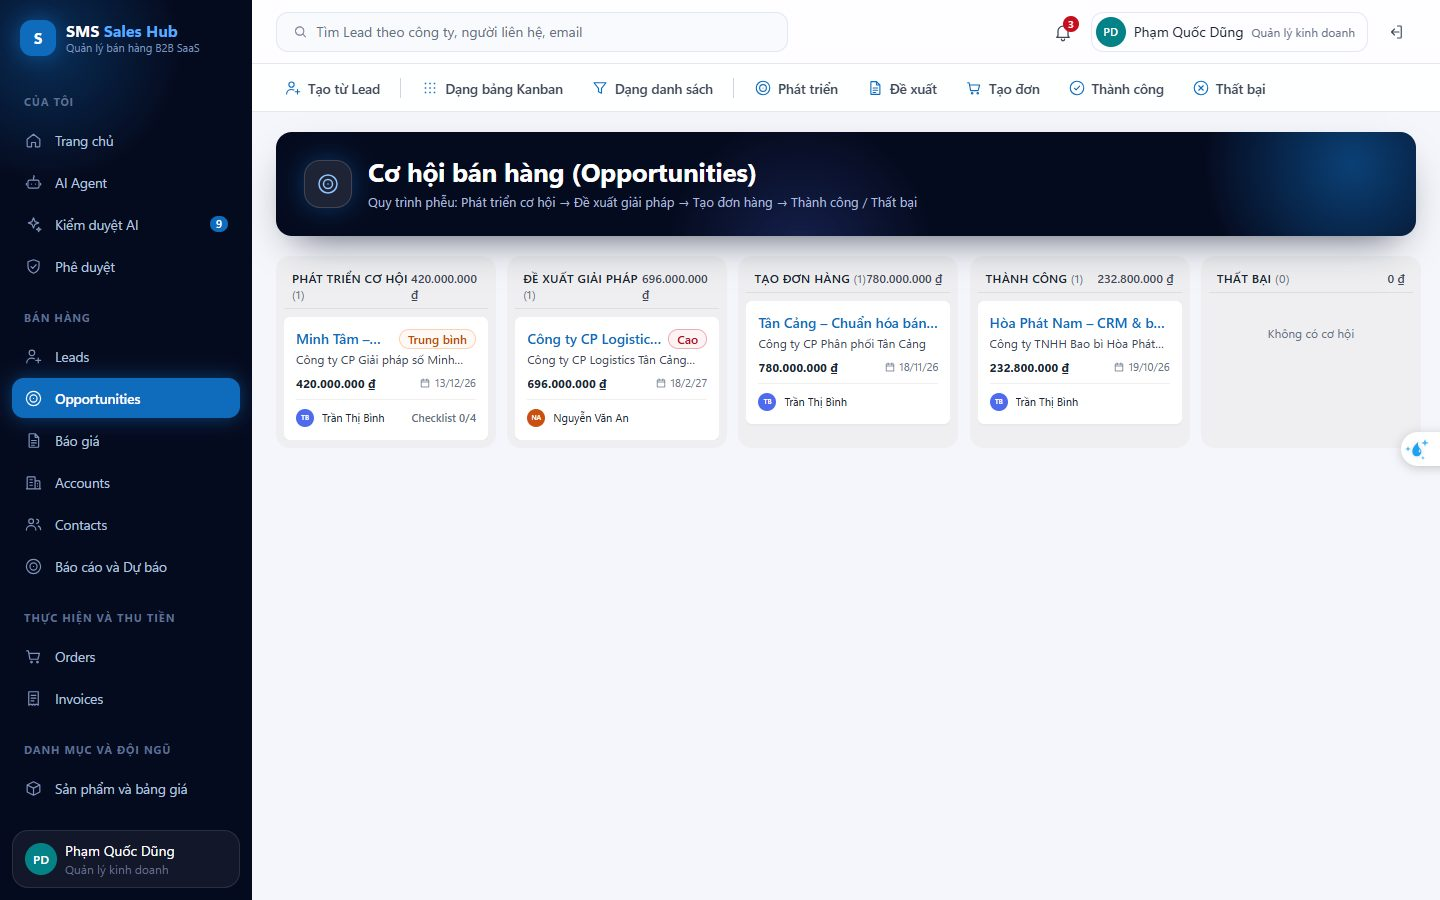
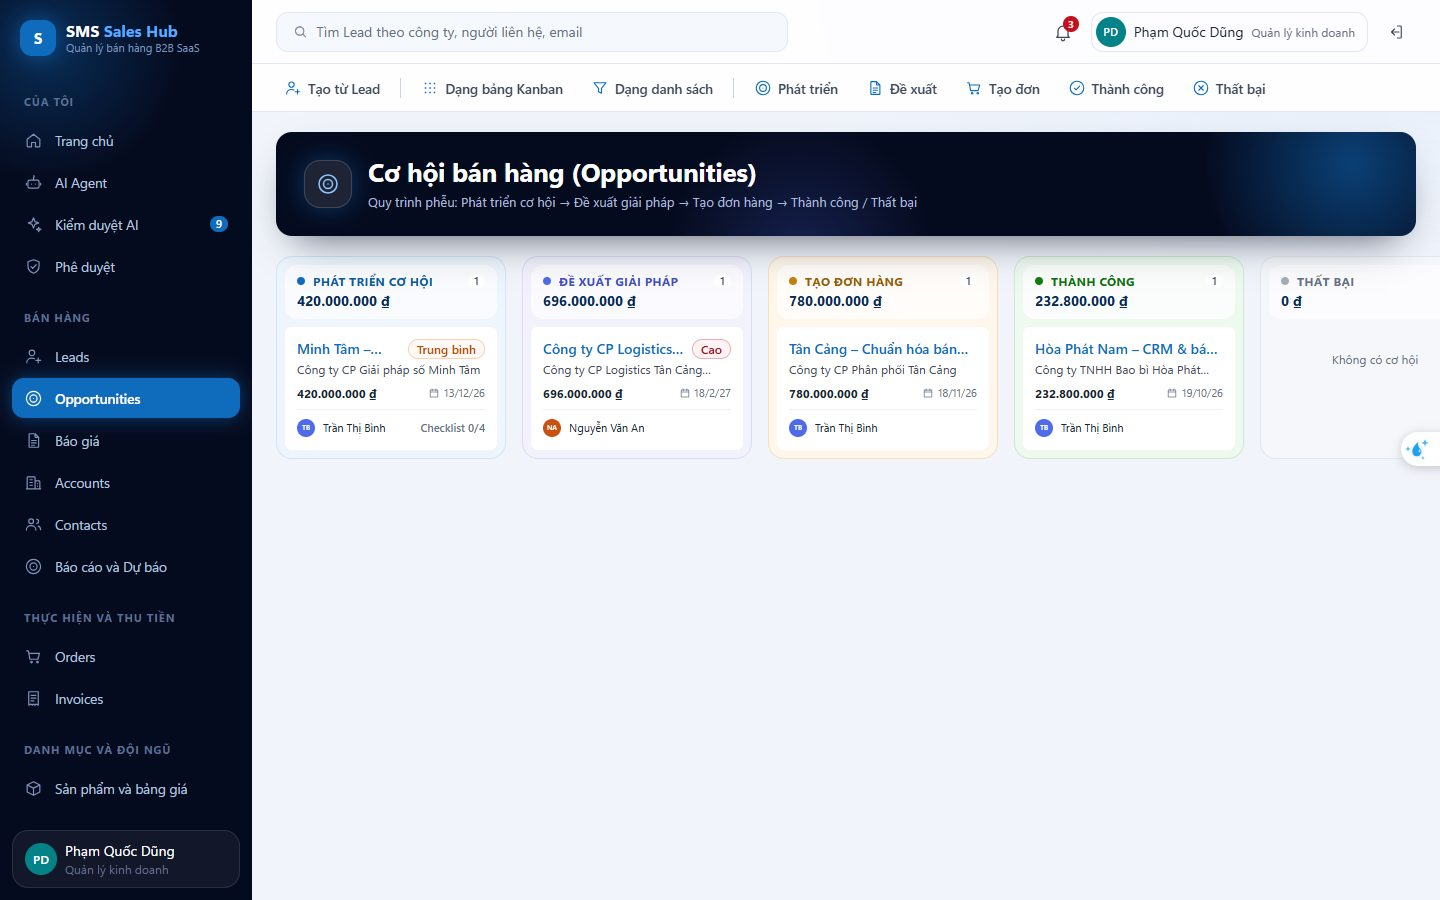
UI: cân màu toàn hệ thống theo tông xanh đêm, Kanban màu theo giai đoạn và không chồng khi hẹp, thẻ BANT màu theo mức điểm, bổ sung màu thiếu định nghĩa

diff --git a/src/app/(app)/ai-review/page.tsx b/src/app/(app)/ai-review/page.tsx
@@ -8,6 +8,15 @@ import { approveSuggestionAction, rejectSuggestionAction } from "./actions";
 
 export const metadata: Metadata = { title: "Kiểm duyệt đề xuất AI (AI Review Inbox)" };
 
+// Màu theo mức điểm BANT 0/8/15/25: xám, cam, xanh, xanh lá.
+const BANT_TONE = {
+  none: { label: "Chưa có", bg: "#f5f7fa", border: "#e1e8f3", ink: "#667085", bar: "#a4acb9" },
+  low: { label: "Sơ bộ", bg: "#fff7ec", border: "#f6d9ad", ink: "#9a5b06", bar: "#c97d0e" },
+  mid: { label: "Khá", bg: "#eef5fd", border: "#c9dff7", ink: "#0f5aa3", bar: "#0f6cbd" },
+  high: { label: "Đạt", bg: "#eefaf0", border: "#bfe5c4", ink: "#0e700e", bar: "#107c10" },
+};
+const BANT_LABEL = { budget: "Ngân sách", authority: "Thẩm quyền", need: "Nhu cầu", timeline: "Thời gian" } as const;
+
 const STATUS_LABELS: Record<string, string> = {
   PENDING_REVIEW: "Chờ duyệt",
   APPROVED: "Đã duyệt",
@@ -170,13 +179,20 @@ function SuggestionCard({ suggestion: s }: { suggestion: Suggestion }) {
 
           {s.kind === "BANT_SCORE" && (
             <div className="space-y-2">
-              <div className="grid grid-cols-2 sm:grid-cols-4 gap-2">
-                {["budget", "authority", "need", "timeline"].map((key) => {
-                  const scores = (payload.scores as Record<string, number>) || {};
+              <div className="grid grid-cols-2 gap-3 sm:grid-cols-4">
+                {(["budget", "authority", "need", "timeline"] as const).map((key) => {
+                  const score = ((payload.scores as Record<string, number>) || {})[key] ?? 0;
+                  const tone = score >= 25 ? BANT_TONE.high : score >= 15 ? BANT_TONE.mid : score >= 8 ? BANT_TONE.low : BANT_TONE.none;
                   return (
-                    <div key={key} className="rounded bg-surface p-2 border border-edge text-center">
-                      <div className="text-[10px] text-ink-3 uppercase font-semibold">{key}</div>
-                      <div className="text-base font-bold text-ink">{scores[key] ?? 0}<span className="text-xs font-normal text-ink-3">/25</span></div>
+                    <div key={key} className="rounded-xl border p-3" style={{ borderColor: tone.border, background: tone.bg }}>
+                      <div className="flex items-center justify-between text-[11px] font-semibold uppercase tracking-wide" style={{ color: tone.ink }}>
+                        {BANT_LABEL[key]}
+                        <span className="rounded-full bg-white/70 px-1.5 text-[10px] normal-case">{tone.label}</span>
+                      </div>
+                      <div className="mt-1 text-[22px] font-bold leading-7 text-brand-ink">{score}<span className="text-xs font-normal text-ink-3">/25</span></div>
+                      <div className="mt-2 h-1.5 rounded-full bg-white/80">
+                        <div className="h-1.5 rounded-full" style={{ width: `${(score / 25) * 100}%`, background: tone.bar }} />
+                      </div>
                     </div>
                   );
                 })}
@@ -227,14 +243,14 @@ function SuggestionCard({ suggestion: s }: { suggestion: Suggestion }) {
           <div className="space-y-1.5 pt-1">
             <span className="font-semibold text-xs text-ink-3">Căn cứ trích dẫn chứng minh (Grounding):</span>
             <div className="flex flex-wrap gap-2">
-              {evidence.map((ev, idx) => {
+              {evidence.filter((ev, idx, arr) => arr.findIndex((x) => (x.ref || x.source) === (ev.ref || ev.source) && (x.quote || x.detail) === (ev.quote || ev.detail)) === idx).map((ev, idx) => {
                 const ref = ev.ref || ev.source || "";
                 const detail = ev.quote || ev.detail || "";
                 return (
                   <span
                     key={idx}
                     title={detail}
-                    className="inline-flex items-center gap-1 px-2 py-0.5 rounded bg-surface border border-edge text-[11px] text-ink-2"
+                    className="inline-flex items-center gap-1 rounded-full border border-[#cfe0f6] bg-brand-tint px-2.5 py-0.5 text-[11px] text-ink-2"
                   >
                     <strong className="text-ink">{ref}</strong>
                     {detail && <span className="text-ink-3 truncate max-w-[200px]">: &quot;{detail}&quot;</span>}

diff --git a/src/app/(app)/opportunities/page.tsx b/src/app/(app)/opportunities/page.tsx
@@ -9,6 +9,14 @@ import { CommandBar, CommandLink, CommandSep, Empty, Flash, Grid, PageTitle, Per
 export const metadata: Metadata = { title: "Cơ hội bán hàng (Opportunities)" };
 
 const COLUMNS = ["DEVELOP", "PROPOSE", "CLOSE", "WON", "LOST"] as const;
+// Mỗi giai đoạn một tông nhạt cùng bộ màu với hệ thống; chấm màu và chữ cho biết giai đoạn, không chỉ dựa vào màu nền.
+const STAGE_COLOR: Record<string, { bg: string; border: string; ink: string; dot: string }> = {
+  DEVELOP: { bg: "#eef5fd", border: "#d3e5f8", ink: "#0f5aa3", dot: "#0f6cbd" },
+  PROPOSE: { bg: "#f2f2fd", border: "#dcdcf7", ink: "#3f4fc7", dot: "#4f6bed" },
+  CLOSE: { bg: "#fff7ec", border: "#f6dfbd", ink: "#9a5b06", dot: "#c97d0e" },
+  WON: { bg: "#eefaf0", border: "#cde9d1", ink: "#0e700e", dot: "#107c10" },
+  LOST: { bg: "#f5f7fa", border: "#e1e8f3", ink: "#667085", dot: "#a4acb9" },
+};
 
 export default async function OpportunitiesPage({ searchParams }: PageProps<"/opportunities">) {
   const user = await requirePermission('opp.read');
@@ -42,17 +50,20 @@ export default async function OpportunitiesPage({ searchParams }: PageProps<"/op
       />
 
       {view === "board" ? (
-        <div className="grid grid-cols-1 gap-4 px-6 pb-8 md:grid-cols-3 xl:grid-cols-5">
+        <div className="flex gap-4 overflow-x-auto px-6 pb-8">
           {COLUMNS.map((stage) => {
             const items = rows.filter((o) => o.stage === stage);
             const total = items.reduce((s, o) => s + o.amount, 0);
+            const c = STAGE_COLOR[stage] ?? STAGE_COLOR.LOST;
             return (
-              <section key={stage} className="rounded-lg bg-[#ebebeb]/60 p-2 flex flex-col min-w-[220px]">
-                <header className="flex items-center justify-between px-2 py-1.5 border-b border-[#dedede] mb-2">
-                  <span className="font-semibold text-xs uppercase tracking-wide">
-                    {OPP_STAGE[stage]} <span className="font-normal text-ink-3">({items.length})</span>
-                  </span>
-                  <span className="text-xs font-semibold text-ink-2 tabular-nums">{formatVnd(total)}</span>
+              <section key={stage} className="flex w-[264px] shrink-0 flex-col rounded-2xl border p-2 xl:w-auto xl:min-w-[230px] xl:flex-1" style={{ background: c.bg, borderColor: c.border }}>
+                <header className="mb-2 rounded-xl bg-white/70 px-3 py-2">
+                  <div className="flex items-center gap-2 text-xs font-bold uppercase tracking-wide" style={{ color: c.ink }}>
+                    <span className="h-2 w-2 shrink-0 rounded-full" style={{ background: c.dot }} />
+                    <span className="truncate">{OPP_STAGE[stage]}</span>
+                    <span className="ml-auto rounded-full bg-white px-1.5 text-[11px] font-semibold text-ink-2">{items.length}</span>
+                  </div>
+                  <div className="mt-0.5 text-sm font-bold tabular-nums text-brand-ink">{formatVnd(total)}</div>
                 </header>
                 <div className="space-y-2 flex-1 overflow-y-auto max-h-[70vh]">
                   {items.map((o) => (

diff --git a/src/app/globals.css b/src/app/globals.css
@@ -9,13 +9,13 @@
   --brand-tint-2: #cfe4fa;
   --brand-ink: #0b2a55;
   --header: #ffffff;
-  --bg: #f4f6fb;
+  --bg: #f1f5fb;
   --surface: #ffffff;
-  --surface-2: #f8fafd;
-  --surface-hover: #f1f4f9;
-  --surface-pressed: #e4e9f1;
-  --stroke: #e4e8ef;
-  --stroke-strong: #cfd6e0;
+  --surface-2: #f5f8fd;
+  --surface-hover: #eef3fb;
+  --surface-pressed: #e1e9f5;
+  --stroke: #e1e8f3;
+  --stroke-strong: #cbd5e4;
   --stroke-accessible: #8a94a6;
   --text: #1b2430;
   --text-2: #3d4757;
@@ -45,6 +45,26 @@
   --color-surface-2: var(--surface-2);
   --color-stroke: var(--stroke);
   --color-ink: var(--text);
+  --color-ink-1: var(--text);
+  --color-edge: var(--stroke);
+  --color-danger-ink: var(--danger);
+  --color-success-ink: var(--success);
+  --color-warning-ink: var(--warning);
+  --color-danger-tint: var(--danger-tint);
+  --color-warning-tint: var(--warning-tint);
+  --color-brand-strong: var(--brand-pressed);
+  --color-night: #050b1f;
+  --color-accent: var(--brand);
+  --color-accent-hover: var(--brand-hover);
+  --color-accent-tint: var(--brand-tint);
+  /* Tên màu cũ còn dùng ở vài trang, trỏ về cùng bộ màu. */
+  --color-primary: var(--brand);
+  --color-primary-contrast: #ffffff;
+  --color-surface-hover: var(--surface-hover);
+  --color-surface-subtle: var(--surface-2);
+  --color-ink-subtle: var(--text-3);
+  --color-danger-surface: var(--danger-tint);
+  --color-warning-contrast: #ffffff;
   --color-ink-2: var(--text-2);
   --color-ink-3: var(--text-3);
   --color-success: var(--success);
@@ -60,7 +80,9 @@ body {
 }
 
 body {
-  background: var(--bg);
+  /* Nền xanh rất nhạt, ngả cùng tông với dải tiêu đề và menu tối. */
+  background: radial-gradient(1200px 500px at 100% 0%, #e6eefb 0%, transparent 60%), var(--bg);
+  background-attachment: fixed;
   color: var(--text);
   font-family: var(--font-sans);
   font-size: 14px;
@@ -268,14 +290,14 @@ input[type="radio"] {
 .grid-table th {
   text-align: left;
   font-weight: 600;
-  color: var(--text-3);
+  color: #3b5583;
   font-size: 11.5px;
   text-transform: uppercase;
   letter-spacing: 0.04em;
   height: 40px;
   padding: 0 14px;
-  border-bottom: 1px solid var(--stroke);
-  background: var(--surface-2);
+  border-bottom: 1px solid #d9e3f2;
+  background: #eef3fb;
   position: sticky;
   top: 0;
   white-space: nowrap;

diff --git a/src/components/ui.tsx b/src/components/ui.tsx
@@ -109,7 +109,7 @@ export function Tabs({ base, current, tabs }: { base: string; current: string; t
             href={`${base}?tab=${t.key}`}
             className={cx(
               "flex shrink-0 items-center gap-1.5 whitespace-nowrap rounded-full px-4 py-1.5 text-[13.5px] transition-colors",
-              active ? "bg-brand font-semibold text-white shadow-[0_2px_6px_rgba(15,108,189,0.25)]" : "text-ink-2 hover:bg-brand-tint hover:text-brand-ink",
+              active ? "bg-night font-semibold text-white shadow-[0_0_14px_rgba(15,108,189,0.45)]" : "text-ink-2 hover:bg-brand-tint hover:text-brand-ink",
             )}
           >
             {t.label}
@@ -130,7 +130,7 @@ export function Card({ title, actions, children, className, pad = true }: { titl
       {(title || actions) && (
         <header className="flex min-h-13 items-center justify-between gap-2 border-b border-[#eef1f5] px-5 py-3">
           <h2 className="flex items-center gap-2 text-[15px] font-bold text-brand-ink">
-            <span className="h-4 w-1 rounded-full bg-brand" aria-hidden="true" />
+            <span className="h-4 w-1 rounded-full bg-gradient-to-b from-[#5aa9ff] to-brand" aria-hidden="true" />
             {title}
           </h2>
           {actions && <div className="flex items-center gap-1">{actions}</div>}
@@ -290,7 +290,7 @@ export function Empty({ icon = "info", children }: { icon?: IconName; children: 
 export function Kpi({ label, value, sub, icon, href }: { label: string; value: ReactNode; sub?: ReactNode; icon: IconName; href?: string }) {
   const body = (
     <div className="flex h-full items-start gap-4 rounded-2xl border border-stroke bg-surface p-5 shadow-[var(--shadow-4)] transition hover:-translate-y-0.5 hover:shadow-[var(--shadow-16)]">
-      <div className="flex h-11 w-11 shrink-0 items-center justify-center rounded-xl bg-brand-tint text-brand">
+      <div className="flex h-11 w-11 shrink-0 items-center justify-center rounded-xl bg-night text-[#8fc4ff] shadow-[0_0_16px_rgba(15,108,189,0.35)]">
         <Icon name={icon} size={22} />
       </div>
       <div className="min-w-0">
